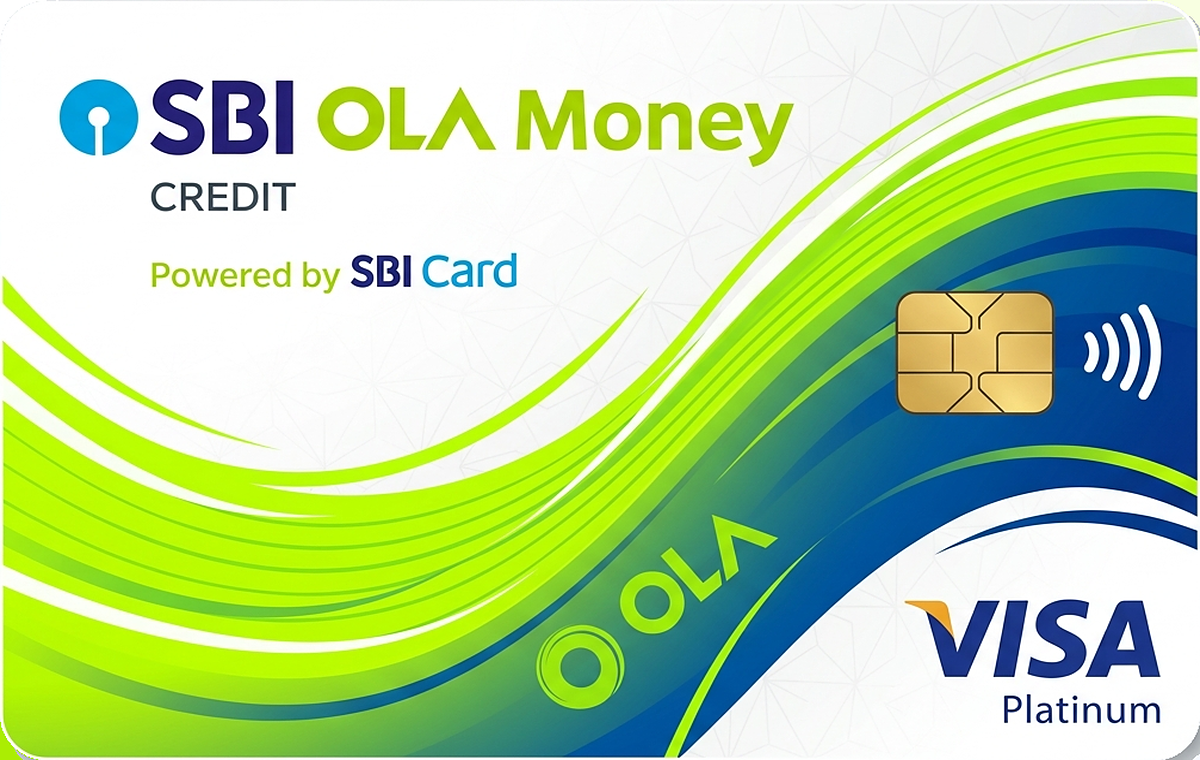
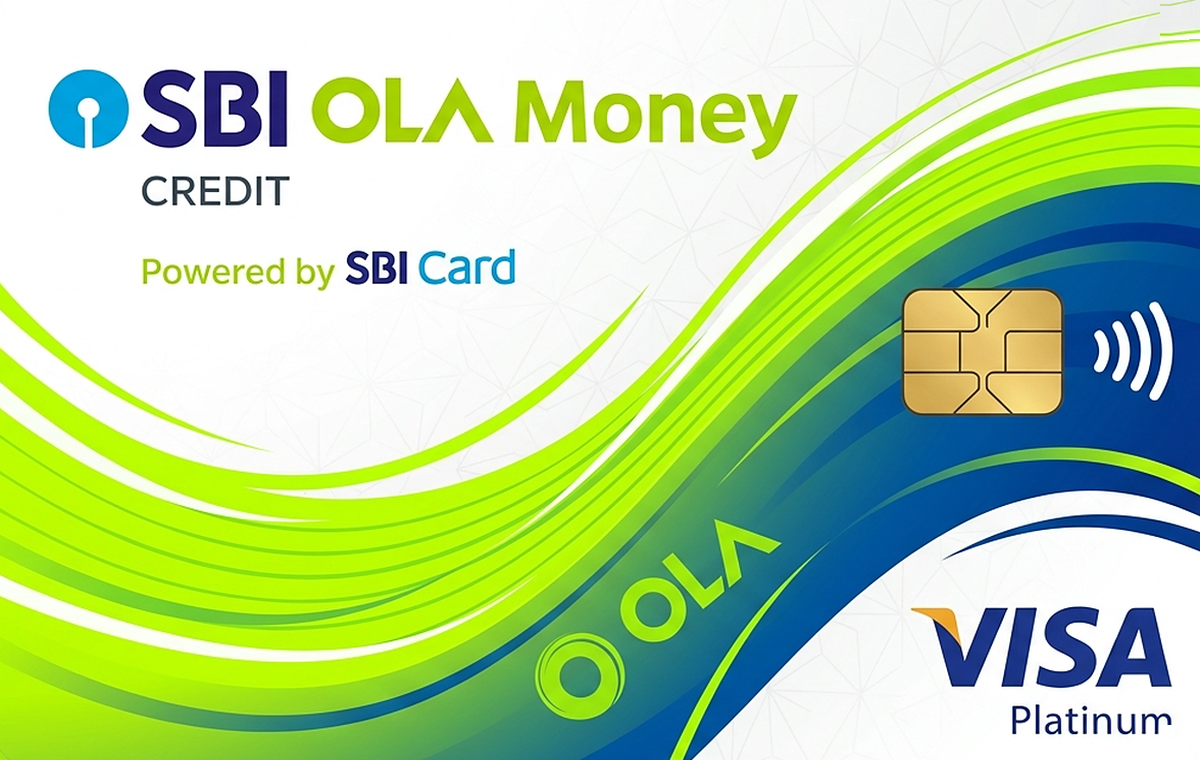
feat(cards): Phase 11 State Bank of India credit cards authentic physical replicas

diff --git a/src/utils/cardRewardEngine.ts b/src/utils/cardRewardEngine.ts
@@ -682,6 +682,9 @@ export const CARD_PERK_RULES: CardPerkRule[] = [
       "Entertainment": { returnPct: 5.0, perkType: "cashback", description: "5% on all online cinema and event booking websites" },
       "Electronics": { returnPct: 5.0, perkType: "cashback", description: "5% on electronic gadgets bought online" },
       "International Spends": { returnPct: 1.0, perkType: "cashback", description: "5% online cashback minus 3.5% international forex markup (net ~1.0% return)" },
+      "Fuel": { returnPct: 0.0, perkType: "cashback", description: "Fuel transactions are excluded from cashback" },
+      "Fuel & Automotive": { returnPct: 0.0, perkType: "cashback", description: "Fuel transactions are excluded from cashback" },
+      "Fuel & Gas": { returnPct: 0.0, perkType: "cashback", description: "Fuel transactions are excluded from cashback" },
     },
     defaultOnlineReturnPct: 5.0,
     defaultOfflineReturnPct: 1.0,
@@ -704,6 +707,182 @@ export const CARD_PERK_RULES: CardPerkRule[] = [
     defaultOnlineReturnPct: 1.25,
     defaultOfflineReturnPct: 0.25,
     specialPerks: ["10X points on Amazon, BookMyShow, Cleartrip, Lenskart, Netmeds, Swiggy", "₹2,000 Cleartrip e-voucher on 1L/2L spend milestone"],
+  },
+  {
+    matchKeys: ["simplysave", "sbi simplysave", "simply save"],
+    cardDisplayName: "SBI SimplySAVE Credit Card",
+    merchantPerks: {
+      swiggy: { returnPct: 2.5, perkType: "reward_points", description: "10X Reward Points (2.5% return) on Dining", badge: "10X Points (2.5%)" },
+      zomato: { returnPct: 2.5, perkType: "reward_points", description: "10X Reward Points (2.5% return) on Dining" },
+      blinkit: { returnPct: 2.5, perkType: "reward_points", description: "10X Reward Points (2.5% return) on Grocery" },
+      zepto: { returnPct: 2.5, perkType: "reward_points", description: "10X Reward Points (2.5% return) on Grocery" },
+      bigbasket: { returnPct: 2.5, perkType: "reward_points", description: "10X Reward Points (2.5% return) on Grocery" },
+      bookmyshow: { returnPct: 2.5, perkType: "reward_points", description: "10X Reward Points (2.5% return) on Movies" },
+    },
+    categoryPerks: {
+      "Food & Dining": { returnPct: 2.5, perkType: "reward_points", description: "10X Reward Points (10 pts per ₹150 = 2.5%) on Dining" },
+      "Quick Commerce": { returnPct: 2.5, perkType: "reward_points", description: "10X Reward Points on Grocery & Departmental store spends" },
+      "Entertainment": { returnPct: 2.5, perkType: "reward_points", description: "10X Reward Points on Movie ticket bookings" },
+    },
+    defaultOnlineReturnPct: 0.25,
+    defaultOfflineReturnPct: 0.25,
+    specialPerks: ["10X Reward Points (2.5%) on Dining, Grocery, Departmental Store & Movies", "RuPay UPI integration enabled for contactless QR merchant payments"],
+  },
+  {
+    matchKeys: ["sbi prime", "prime sbi", "sbi card prime"],
+    cardDisplayName: "SBI Card PRIME",
+    merchantPerks: {
+      swiggy: { returnPct: 2.5, perkType: "reward_points", description: "10X Reward Points (2.5% return) on Dining", badge: "10X Points (2.5%)" },
+      zomato: { returnPct: 2.5, perkType: "reward_points", description: "10X Reward Points (2.5% return) on Dining" },
+      bigbasket: { returnPct: 2.5, perkType: "reward_points", description: "10X Reward Points (2.5% return) on Groceries" },
+      bookmyshow: { returnPct: 2.5, perkType: "reward_points", description: "10X Reward Points (2.5% return) on Movies" },
+    },
+    categoryPerks: {
+      "Food & Dining": { returnPct: 2.5, perkType: "reward_points", description: "10X Reward Points (2.5%) on Dining & Groceries" },
+      "Entertainment": { returnPct: 2.5, perkType: "reward_points", description: "10X Reward Points (2.5%) on Movies" },
+      "Travel & Flights": { returnPct: 2.0, perkType: "reward_points", description: "Complimentary Club Vistara & Trident privilege memberships" },
+    },
+    defaultOnlineReturnPct: 0.5,
+    defaultOfflineReturnPct: 0.5,
+    specialPerks: [
+      "10X Reward Points on Dining, Groceries, Departmental stores and Movies",
+      "Complimentary Club Vistara Silver tier & Trident Privilege Red Tier",
+      "4 complimentary International Priority Pass lounge visits per year",
+      "8 complimentary Domestic Airport lounge visits per year",
+    ],
+  },
+  {
+    matchKeys: ["sbi elite", "sbi card elite", "elite sbi"],
+    cardDisplayName: "SBI Card ELITE",
+    merchantPerks: {
+      bookmyshow: { returnPct: 10.0, perkType: "discount", description: "Free movie tickets worth ₹6,000/year (up to ₹250/ticket, max 2 tickets/month)", badge: "₹500/mo Free Movies" },
+      swiggy: { returnPct: 2.5, perkType: "reward_points", description: "5X Reward Points (2.5%) on Dining" },
+      zomato: { returnPct: 2.5, perkType: "reward_points", description: "5X Reward Points (2.5%) on Dining" },
+    },
+    categoryPerks: {
+      "Entertainment": { returnPct: 10.0, perkType: "discount", description: "Complimentary movie tickets worth ₹500 every month on BookMyShow" },
+      "Food & Dining": { returnPct: 2.5, perkType: "reward_points", description: "5X Reward Points on Dining & Departmental stores" },
+      "International Spends": { returnPct: 2.0, perkType: "reward_points", description: "Low foreign currency markup fee of 1.99%" },
+    },
+    defaultOnlineReturnPct: 1.0,
+    defaultOfflineReturnPct: 1.0,
+    specialPerks: [
+      "Free Movie tickets worth up to ₹6,000 every year on BookMyShow",
+      "6 complimentary International lounge visits/year via Priority Pass",
+      "Low forex markup fee of 1.99%",
+      "Complimentary Club Vistara & Trident Privilege Red Tier memberships",
+    ],
+  },
+  {
+    matchKeys: ["aurum", "sbi aurum", "sbi card aurum"],
+    cardDisplayName: "SBI Aurum Metal Credit Card",
+    merchantPerks: {
+      bookmyshow: { returnPct: 15.0, perkType: "discount", description: "4 complimentary movie tickets every month (up to ₹250/ticket = ₹1,000/mo)", badge: "4 Free Tickets/mo" },
+    },
+    categoryPerks: {
+      "Entertainment": { returnPct: 15.0, perkType: "discount", description: "4 free movie tickets every month on BookMyShow (worth ₹12,000/year)" },
+      "Travel & Flights": { returnPct: 4.0, perkType: "reward_points", description: "Unlimited International & Domestic airport lounge access with DreamFolks" },
+      "International Spends": { returnPct: 4.0, perkType: "reward_points", description: "Zero forex markup on all international transactions" },
+      "Food & Dining": { returnPct: 4.0, perkType: "reward_points", description: "4 reward points per ₹100 on luxury dining (1 RP = ₹1)" },
+    },
+    defaultOnlineReturnPct: 4.0,
+    defaultOfflineReturnPct: 4.0,
+    specialPerks: [
+      "4 complimentary movie tickets every month on BookMyShow (up to ₹1,000/month)",
+      "Unlimited International & Domestic lounge access via DreamFolks",
+      "Complimentary memberships: Club Marriott, Taj Epicure, EazyDiner Prime",
+      "Dedicated 24x7 Aurum concierge service",
+    ],
+  },
+  {
+    matchKeys: ["sbi octane", "bpcl sbi octane", "octane", "bpcl octane"],
+    cardDisplayName: "BPCL SBI Card Octane",
+    merchantPerks: {
+      fuel_pumps: { returnPct: 7.25, perkType: "cashback", description: "7.25% valueback (25X points = 6.25% + 1% fuel surcharge waiver) at BPCL petrol pumps", badge: "7.25% Fuel Valueback" },
+      bpcl: { returnPct: 7.25, perkType: "cashback", description: "7.25% valueback (25X points = 6.25% + 1% fuel surcharge waiver) at BPCL petrol pumps", badge: "7.25% Fuel Valueback" },
+      bpcl_fuel: { returnPct: 7.25, perkType: "cashback", description: "7.25% valueback (25X points = 6.25% + 1% fuel surcharge waiver) at BPCL petrol pumps", badge: "7.25% Fuel Valueback" },
+      swiggy: { returnPct: 2.5, perkType: "reward_points", description: "10X Reward Points (2.5%) on Dining" },
+      zomato: { returnPct: 2.5, perkType: "reward_points", description: "10X Reward Points (2.5%) on Dining" },
+      blinkit: { returnPct: 2.5, perkType: "reward_points", description: "10X Reward Points (2.5%) on Groceries" },
+      bigbasket: { returnPct: 2.5, perkType: "reward_points", description: "10X Reward Points (2.5%) on Groceries" },
+      bookmyshow: { returnPct: 2.5, perkType: "reward_points", description: "10X Reward Points (2.5%) on Movies" },
+    },
+    categoryPerks: {
+      "Fuel": { returnPct: 7.25, perkType: "cashback", description: "7.25% valueback on fuel & lubricants at BPCL pumps (up to ₹4,000/bill)" },
+      "Fuel & Automotive": { returnPct: 7.25, perkType: "cashback", description: "7.25% valueback on fuel & lubricants at BPCL pumps (up to ₹4,000/bill)" },
+      "Fuel & Gas": { returnPct: 7.25, perkType: "cashback", description: "7.25% valueback on fuel & lubricants at BPCL pumps (up to ₹4,000/bill)" },
+      "Food & Dining": { returnPct: 2.5, perkType: "reward_points", description: "10X Reward Points on dining" },
+      "Quick Commerce": { returnPct: 2.5, perkType: "reward_points", description: "10X Reward Points on groceries" },
+      "Entertainment": { returnPct: 2.5, perkType: "reward_points", description: "10X Reward Points on movies" },
+    },
+    defaultOnlineReturnPct: 0.25,
+    defaultOfflineReturnPct: 0.25,
+    specialPerks: [
+      "7.25% valueback (25X reward points + 1% surcharge waiver) at BPCL pumps",
+      "10X reward points on Dining, Groceries, and Movies",
+      "4 complimentary domestic airport lounge visits per calendar year",
+    ],
+  },
+  {
+    matchKeys: ["sbi pulse", "pulse sbi", "sbi card pulse"],
+    cardDisplayName: "SBI Card PULSE",
+    merchantPerks: {
+      netmeds: { returnPct: 2.5, perkType: "reward_points", description: "10X Reward Points (2.5%) on pharmacy spends", badge: "10X Health Points" },
+      pharmeasy: { returnPct: 2.5, perkType: "reward_points", description: "10X Reward Points (2.5%) on pharmacy orders" },
+      swiggy: { returnPct: 2.5, perkType: "reward_points", description: "10X Reward Points (2.5%) on Dining" },
+      zomato: { returnPct: 2.5, perkType: "reward_points", description: "10X Reward Points (2.5%) on Dining" },
+      bookmyshow: { returnPct: 2.5, perkType: "reward_points", description: "10X Reward Points (2.5%) on Movies" },
+    },
+    categoryPerks: {
+      "Health & Wellness": { returnPct: 2.5, perkType: "reward_points", description: "10X reward points on Chemist, Pharmacy & Wellness spends" },
+      "Food & Dining": { returnPct: 2.5, perkType: "reward_points", description: "10X reward points on Dining" },
+      "Entertainment": { returnPct: 2.5, perkType: "reward_points", description: "10X reward points on Movies" },
+    },
+    defaultOnlineReturnPct: 0.5,
+    defaultOfflineReturnPct: 0.5,
+    specialPerks: [
+      "Complimentary Noise ColorFit Pulse smartwatch upon fee payment",
+      "1-year complimentary FITPASS PRO membership & Netmeds First",
+      "10X Reward Points on Chemist, Pharmacy, Dining & Movies",
+      "8 complimentary Domestic Airport lounge visits per year",
+    ],
+  },
+  {
+    matchKeys: ["sbi irctc", "irctc sbi", "irctc rupay", "irctc sbi card"],
+    cardDisplayName: "IRCTC SBI Card (RuPay)",
+    merchantPerks: {
+      irctc: { returnPct: 10.0, perkType: "reward_points", description: "Up to 10% valueback as reward points on AC train tickets booked via irctc.co.in", badge: "10% IRCTC Valueback" },
+    },
+    categoryPerks: {
+      "Travel & Flights": { returnPct: 10.0, perkType: "reward_points", description: "Up to 10% reward points valueback on AC train ticket bookings on IRCTC portal" },
+      "Fuel & Automotive": { returnPct: 1.0, perkType: "cashback", description: "1% fuel surcharge waiver across all petrol pumps" },
+    },
+    defaultOnlineReturnPct: 0.33,
+    defaultOfflineReturnPct: 0.33,
+    specialPerks: [
+      "Up to 10% valueback on AC ticket bookings at irctc.co.in / IRCTC Rail Connect app",
+      "1% transaction charge waiver on IRCTC bookings",
+      "4 complimentary Railway Lounge accesses per calendar year",
+    ],
+  },
+  {
+    matchKeys: ["ola sbi", "ola money sbi", "ola credit card"],
+    cardDisplayName: "OLA Money SBI Credit Card",
+    merchantPerks: {
+      ola: { returnPct: 7.0, perkType: "cashback", description: "7% cashback as Ola Money on all Ola cab and auto rides", badge: "7% on Ola Rides" },
+      cleartrip: { returnPct: 5.0, perkType: "cashback", description: "5% cashback on domestic flight bookings, 12% on hotels" },
+    },
+    categoryPerks: {
+      "Travel & Flights": { returnPct: 7.0, perkType: "cashback", description: "7% on Ola cabs and auto bookings" },
+      "Food & Dining": { returnPct: 5.0, perkType: "cashback", description: "5% on partner dining portals via Dineout" },
+    },
+    defaultOnlineReturnPct: 1.0,
+    defaultOfflineReturnPct: 1.0,
+    specialPerks: [
+      "7% accelerated cashback on Ola cab and auto rides",
+      "Zero joining fee in first year",
+      "1% fuel surcharge waiver across all pumps in India",
+    ],
   },
 
   // ── HSBC Cards

diff --git a/src/utils/cardAssets.ts b/src/utils/cardAssets.ts
@@ -384,12 +384,12 @@ export const CARD_ART_PRESETS: CardArtPreset[] = [
     bankName: "State Bank of India",
     network: "Visa",
     category: "shopping",
-    tags: ["simplyclick", "simply click", "sbi simplyclick"],
-    bgGradient: "linear-gradient(135deg, #0c4a6e 0%, #0284c7 40%, #c2410c 100%)",
-    accentColor: "#fdba74",
+    tags: ["simplyclick", "simply click", "sbi simplyclick", "sbi simply click"],
+    bgGradient: "linear-gradient(135deg, #4a0404 0%, #7f1d1d 50%, #1a0505 100%)",
+    accentColor: "#fca5a5",
     textColor: "#ffffff",
     badgeText: "SIMPLY CLICK 10X",
-    patternType: "swoosh",
+    patternType: "filigree",
     imageUrl: "/cards/sbi-simplyclick.png",
     officialImageUrl: "https://www.sbicard.com/static-resources/img/card/product-detail-assets/core-cards/simply-click/left-banner/simply-click-card-face.png",
   },
@@ -399,7 +399,7 @@ export const CARD_ART_PRESETS: CardArtPreset[] = [
     bankName: "State Bank of India",
     network: "Visa",
     category: "lifestyle",
-    tags: ["sbi prime", "prime", "card prime"],
+    tags: ["sbi prime", "prime", "card prime", "sbi card prime"],
     bgGradient: "linear-gradient(135deg, #172554 0%, #1e40af 50%, #0f172a 100%)",
     accentColor: "#93c5fd",
     textColor: "#ffffff",
@@ -414,7 +414,7 @@ export const CARD_ART_PRESETS: CardArtPreset[] = [
     bankName: "State Bank of India",
     network: "Visa",
     category: "metal",
-    tags: ["aurum", "sbi aurum"],
+    tags: ["aurum", "sbi aurum", "sbi card aurum", "aurum metal"],
     bgGradient: "linear-gradient(135deg, #1c1917 0%, #292524 50%, #141210 100%)",
     accentColor: "#eab308",
     textColor: "#fef08a",
@@ -429,12 +429,12 @@ export const CARD_ART_PRESETS: CardArtPreset[] = [
     bankName: "State Bank of India",
     network: "RuPay",
     category: "shopping",
-    tags: ["simplysave", "simply save", "sbi simplysave"],
-    bgGradient: "linear-gradient(135deg, #1e3a8a 0%, #15803d 50%, #0f172a 100%)",
-    accentColor: "#4ade80",
+    tags: ["simplysave", "simply save", "sbi simplysave", "sbi simply save", "simplysave rupay"],
+    bgGradient: "linear-gradient(135deg, #004d99 0%, #0284c7 50%, #002244 100%)",
+    accentColor: "#38bdf8",
     textColor: "#ffffff",
     badgeText: "SIMPLYSAVE RUPAY",
-    patternType: "lines",
+    patternType: "filigree",
     imageUrl: "/cards/sbi-simplysave.png",
   },
   {
@@ -443,7 +443,7 @@ export const CARD_ART_PRESETS: CardArtPreset[] = [
     bankName: "State Bank of India",
     network: "Visa",
     category: "metal",
-    tags: ["sbi elite", "elite", "card elite"],
+    tags: ["sbi elite", "elite", "card elite", "sbi card elite"],
     bgGradient: "linear-gradient(135deg, #09090b 0%, #18181b 50%, #27272a 100%)",
     accentColor: "#facc15",
     textColor: "#fef08a",
@@ -466,12 +466,55 @@ export const CARD_ART_PRESETS: CardArtPreset[] = [
       "octane credit card",
       "octane",
     ],
-    bgGradient: "linear-gradient(135deg, #1e3a8a 0%, #1d4ed8 50%, #0369a1 100%)",
-    accentColor: "#fbbf24",
+    bgGradient: "linear-gradient(135deg, #0c0a09 0%, #1c1917 50%, #451a03 100%)",
+    accentColor: "#f97316",
     textColor: "#ffffff",
     badgeText: "BPCL OCTANE 7.25%",
     patternType: "mesh",
     imageUrl: "/cards/sbi-octane.png",
+  },
+  {
+    id: "sbi-pulse",
+    name: "SBI Card PULSE",
+    bankName: "State Bank of India",
+    network: "Visa",
+    category: "lifestyle",
+    tags: [
+      "sbi pulse",
+      "sbi card pulse",
+      "pulse sbi",
+      "pulse credit card",
+      "pulse",
+      "sbi pulse credit card",
+    ],
+    bgGradient: "linear-gradient(135deg, #09090b 0%, #1e1b4b 50%, #450a0a 100%)",
+    accentColor: "#f43f5e",
+    textColor: "#ffffff",
+    badgeText: "PULSE HEALTH & FITPASS",
+    patternType: "lines",
+    imageUrl: "/cards/sbi-pulse.png",
+  },
+  {
+    id: "sbi-irctc",
+    name: "IRCTC SBI Card (RuPay)",
+    bankName: "State Bank of India",
+    network: "RuPay",
+    category: "travel",
+    tags: [
+      "irctc sbi",
+      "sbi irctc",
+      "irctc rupay",
+      "irctc sbi card",
+      "irctc credit card",
+      "sbi irctc platinum",
+      "irctc sbi platinum",
+    ],
+    bgGradient: "linear-gradient(135deg, #0c2340 0%, #1d4ed8 50%, #0369a1 100%)",
+    accentColor: "#f59e0b",
+    textColor: "#ffffff",
+    badgeText: "IRCTC 10% VALUEBACK",
+    patternType: "geometric",
+    imageUrl: "/cards/sbi-irctc.png",
   },
   {
     id: "ola-sbi",
@@ -486,9 +529,9 @@ export const CARD_ART_PRESETS: CardArtPreset[] = [
       "ola money credit card",
       "ola money",
     ],
-    bgGradient: "linear-gradient(135deg, #15803d 0%, #22c55e 50%, #052e16 100%)",
-    accentColor: "#86efac",
-    textColor: "#ffffff",
+    bgGradient: "linear-gradient(135deg, #ffffff 0%, #f0fdf4 40%, #0284c7 100%)",
+    accentColor: "#84cc16",
+    textColor: "#0f172a",
     badgeText: "OLA MONEY 7%",
     patternType: "swoosh",
     imageUrl: "/cards/ola-sbi.png",

diff --git a/src/__tests__/cardRewardEngine.test.ts b/src/__tests__/cardRewardEngine.test.ts
@@ -183,5 +183,30 @@ describe("Smart Card Reward Engine - Which Card to Use?", () => {
     expect(luxuryResult.topCard?.cardName).toBe("Kotak White Reserve");
     expect(luxuryResult.topCard?.returnPct).toBe(3.5);
   });
+
+  it("identifies SBI Octane fuel return, IRCTC travel perks, SBI Cashback online savings, and Aurum luxury benefits", () => {
+    const sbiPortfolio = [
+      { id: "s1", issuer: "BPCL SBI Card Octane", limit: 250000, outstanding: 0, status: "active" },
+      { id: "s2", issuer: "IRCTC SBI Card", limit: 200000, outstanding: 0, status: "active" },
+      { id: "s3", issuer: "SBI Cashback Credit Card", limit: 300000, outstanding: 0, status: "active" },
+      { id: "s4", issuer: "SBI Aurum Metal Credit Card", limit: 1000000, outstanding: 0, status: "active" },
+    ];
+
+    const fuelResult = rankCardsForPayment(sbiPortfolio, "BPCL Petrol Pump", "Fuel & Automotive", 2000);
+    expect(fuelResult.topCard?.cardName).toBe("BPCL SBI Card Octane");
+    expect(fuelResult.topCard?.returnPct).toBe(7.25);
+
+    const trainResult = rankCardsForPayment(sbiPortfolio, "IRCTC", "Travel & Flights", 3500);
+    expect(trainResult.topCard?.cardName).toBe("IRCTC SBI Card");
+    expect(trainResult.topCard?.returnPct).toBe(10.0);
+
+    const onlineResult = rankCardsForPayment(sbiPortfolio, "Amazon", "Online Shopping", 5000);
+    expect(onlineResult.topCard?.cardName).toBe("SBI Cashback Credit Card");
+    expect(onlineResult.topCard?.returnPct).toBe(5.0);
+
+    const movieResult = rankCardsForPayment(sbiPortfolio, "BookMyShow", "Entertainment", 1000);
+    expect(movieResult.topCard?.cardName).toBe("SBI Aurum Metal Credit Card");
+    expect(movieResult.topCard?.returnPct).toBe(15.0);
+  });
 });
 

diff --git a/src/__tests__/creditCardArtwork.test.ts b/src/__tests__/creditCardArtwork.test.ts
@@ -400,6 +400,13 @@ describe("Credit Card Artwork & Variant Visuals Engine", () => {
       { query: "Kotak Royale Signature Credit Card", expectedId: "kotak-royale", expectedImage: "/cards/kotak-royale.png" },
       { query: "Kotak Privy League Signature Credit Card", expectedId: "kotak-privy-league", expectedImage: "/cards/kotak-privy-league.png" },
       { query: "Kotak IndianOil RuPay Credit Card", expectedId: "kotak-iocl", expectedImage: "/cards/kotak-iocl.png" },
+      { query: "SBI SimplyClick Credit Card", expectedId: "sbi-simplyclick", expectedImage: "/cards/sbi-simplyclick.png" },
+      { query: "SBI SimplySAVE RuPay Credit Card", expectedId: "sbi-simplysave", expectedImage: "/cards/sbi-simplysave.png" },
+      { query: "SBI Card PRIME", expectedId: "sbi-prime", expectedImage: "/cards/sbi-prime.png" },
+      { query: "SBI Card ELITE", expectedId: "sbi-elite", expectedImage: "/cards/sbi-elite.png" },
+      { query: "SBI Aurum Metal Credit Card", expectedId: "sbi-aurum", expectedImage: "/cards/sbi-aurum.png" },
+      { query: "SBI Card PULSE", expectedId: "sbi-pulse", expectedImage: "/cards/sbi-pulse.png" },
+      { query: "IRCTC SBI Card", expectedId: "sbi-irctc", expectedImage: "/cards/sbi-irctc.png" },
     ];
 
     it.each(requiredCards)("accurately matches query '$query' to preset $expectedId with image $expectedImage", ({ query, expectedId, expectedImage }) => {
